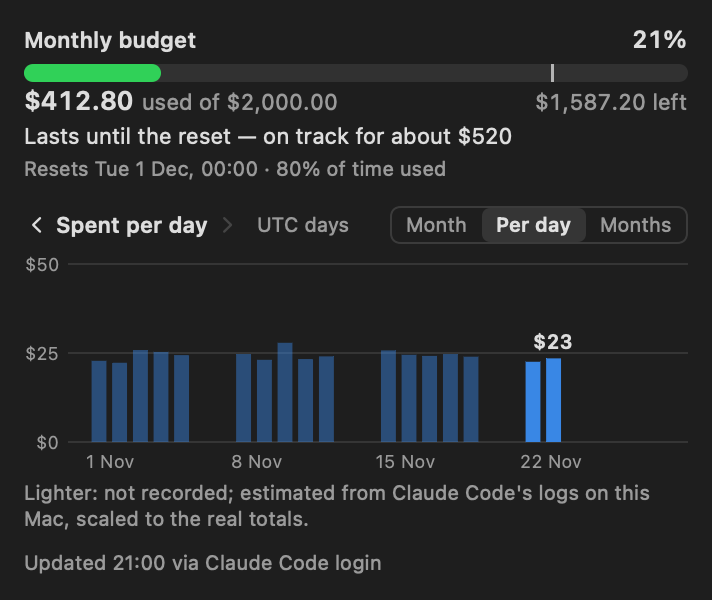
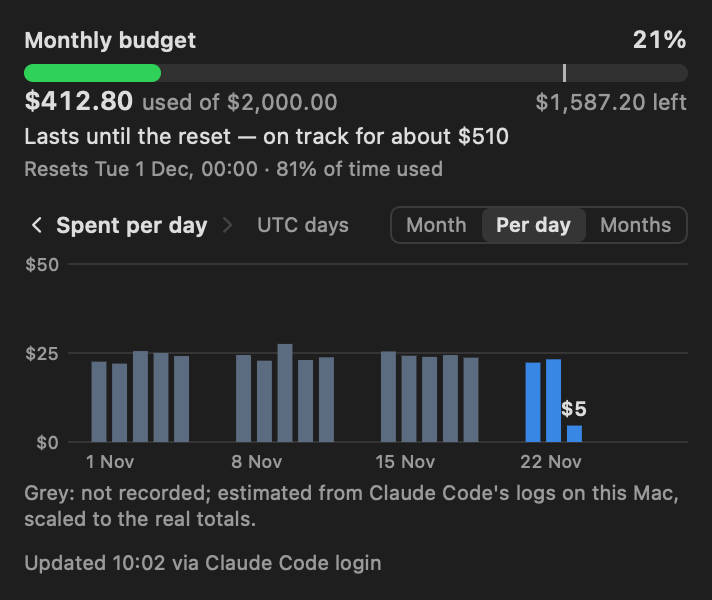
README screenshots: regenerate the budget popups with the slate estimated curve

diff --git a/README.md b/README.md
@@ -28,7 +28,7 @@ Everything in detail, including all settings: the [guide](docs/GUIDE.md).
 
 | Pro / Max | Enterprise / Team |
 |---|---|
-| <img src="docs/screenshots/popup-pro-max.png" width="356" alt="Popup: Session 5 h at 20%; Week all models at 60% in yellow, runs out 8 h before the weekly reset; below, a line graph of both this week with a dashed projection of the week to 100%"> | <img src="docs/screenshots/popup-enterprise.png" width="356" alt="Popup: Monthly budget at 21%, $412.80 used of $2,000.00, $1,587.20 left, on track for about $800 by the 1 Dec reset; below, a line graph of money spent this month with a dashed projection, the unrecorded part drawn in grey as estimated"> |
+| <img src="docs/screenshots/popup-pro-max.png" width="356" alt="Popup: Session 5 h at 20%; Week all models at 60% in yellow, runs out 8 h before the weekly reset; below, a line graph of both this week with a dashed projection of the week to 100%"> | <img src="docs/screenshots/popup-enterprise.png" width="356" alt="Popup: Monthly budget at 21%, $412.80 used of $2,000.00, $1,587.20 left, lasts until the reset, on track for about $510; below, a line graph of money spent this month with a dashed projection, the unrecorded part drawn in grey as estimated"> |
 | <img src="docs/screenshots/popup-pro-max-extra.png" width="356" alt="Popup: Session and Week rows, then Extra usage at 25%, $12.40 used of $50.00, on track for about $16; the 5h/7d graph, and below it a graph of extra usage this month with a dashed projection to about $16"> | <img src="docs/screenshots/popup-enterprise-daily.png" width="356" alt="The same popup with the graph switched to Per day: a bar per UTC day, the unrecorded days' bars grey as estimated"> |
 | <img src="docs/screenshots/popup-pro-max-fable.png" width="356" alt="Popup: Session, Week all models and Week Fable at 35%; the week graph with a third, ochre line for Fable ending at Fable 35%"> | |
 
